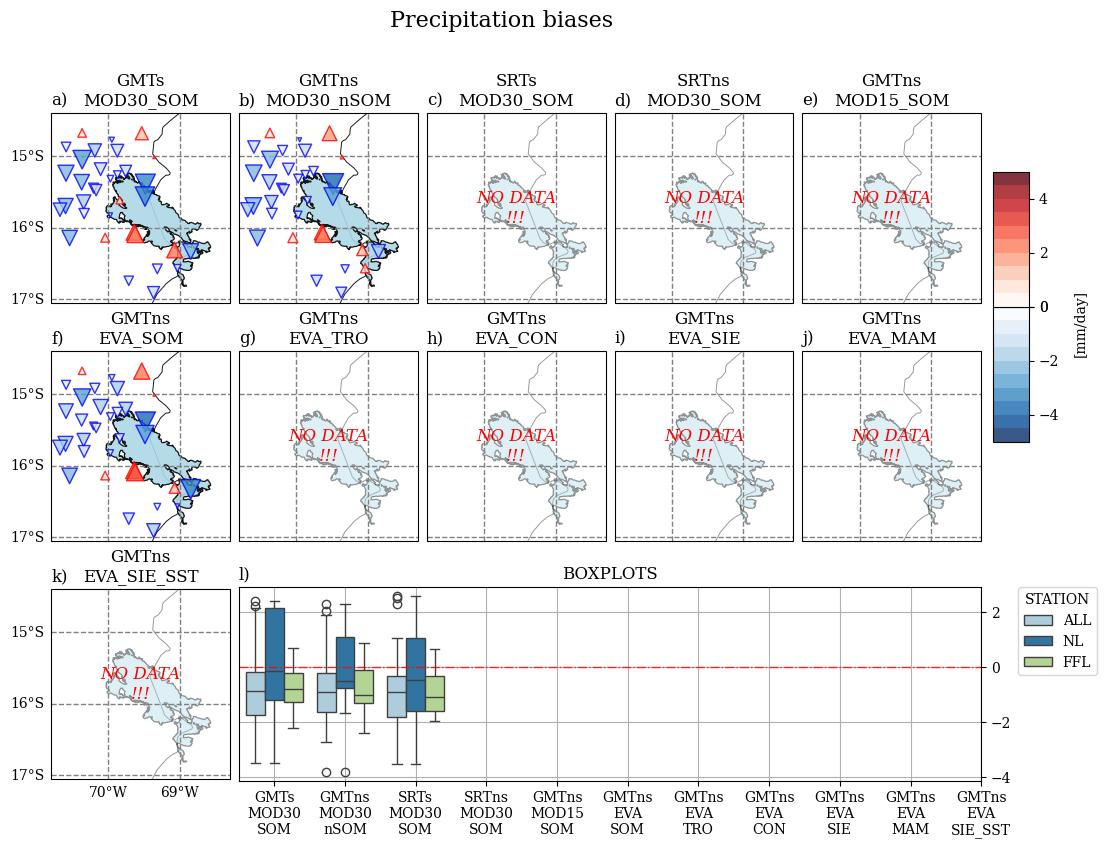
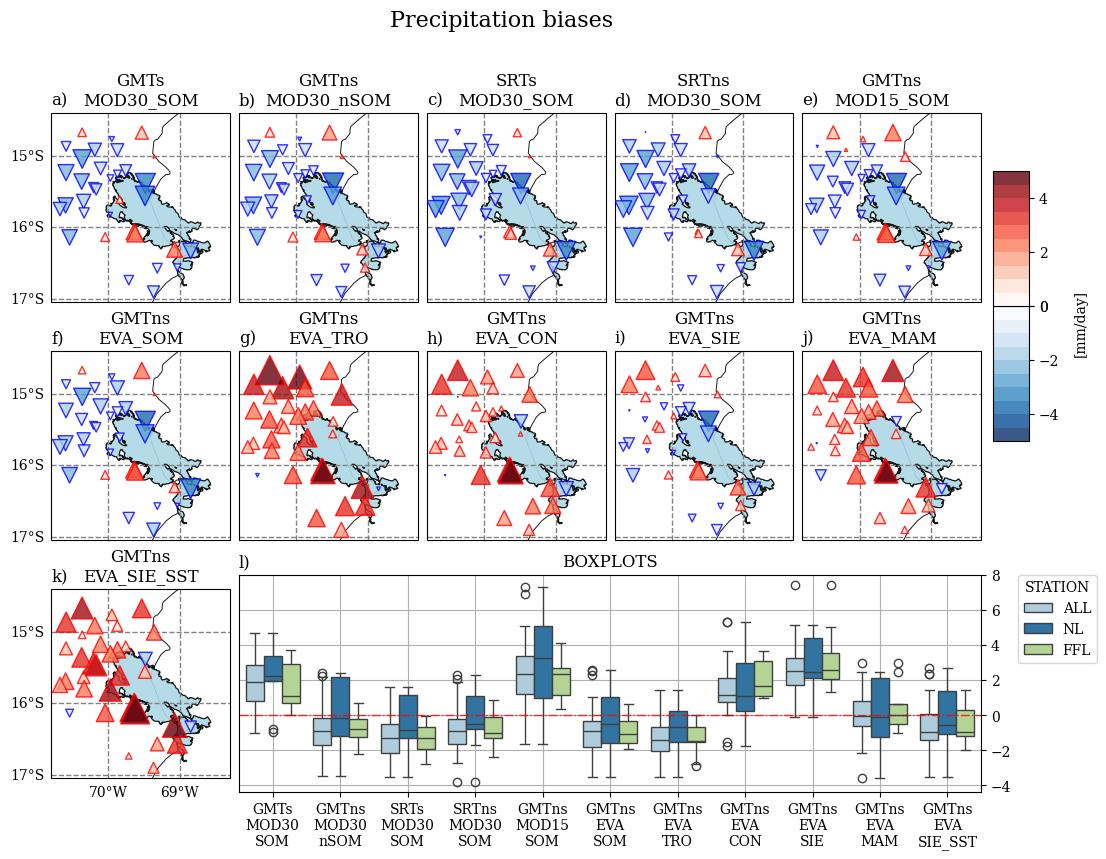
Elimina carperta y actualiza archivos

diff --git a/src/02_station_dif.py b/src/02_station_dif.py
@@ -19,8 +19,9 @@ from glob import glob as gb
 # ============================================================
 
 # Experimentos a evaluar usando archivos creados con el script 01_ordena_wrf_files.py
-EXPERIMENTOS = [e.split("/")[-1].split("_")[0] for e in gb("../data/nc_files/*t2m.png")]  #['EXP0', 'EXP1']
-
+files_experimentos = gb("../data/nc_files/*t2m_d02_dy.nc")
+EXPERIMENTOS = [e.split("/")[-1].split("_")[0] for e in files_experimentos]  #['EXP0', 'EXP1']
+print(EXPERIMENTOS)
 # Rutas de datos
 RUTA_CSV = '../input_csv'          # Observaciones estacionales
 RUTA_NC = '../data/nc_files'       # Salidas WRF procesadas
@@ -87,7 +88,7 @@ def main():
         
         # Extraer cada experimento y calcular bias
         for exp in EXPERIMENTOS:
-            patron = f"{RUTA_NC}/{exp}*{variable}*.nc"
+            patron = f"{RUTA_NC}/{exp}_*{variable}*.nc"
             archivo_mod = gb(patron)[0]
             
             print(f"  {exp}: {os.path.basename(archivo_mod)}")

diff --git a/src/03_plot_stations.py b/src/03_plot_stations.py
@@ -36,7 +36,7 @@ m = META[VAR]
 # ─── rótulos dos experimentos ─────────────────────────────────────────────────
 ############################################################
 EXP_IDS = [f'EXP{i}' for i in range(11)] + ['boxplot']
-
+print(EXP_IDS)
 EXP_LABELS_boxplot = ['GMTs\nMOD30\nSOM',  'GMTns\nMOD30\nnSOM', 'SRTs\nMOD30\nSOM', 'SRTns\nMOD30\nSOM', 
               'GMTns\nMOD15\nSOM',  'GMTns\nEVA\nSOM', 'GMTns\nEVA\nTRO',   'GMTns\nEVA\nCON',    
               'GMTns\nEVA\nSIE', 'GMTns\nEVA\nMAM',   'GMTns\nEVA\nSIE_SST','BOXPLOTS',]

diff --git a/src/aux_station_plot.py b/src/aux_station_plot.py
@@ -150,6 +150,6 @@ def plot_boxplot_panel(ax, root, var, exp_labels):
     ax.set_ylabel(None)
     ax.yaxis.tick_right()
     #ax.set_aspect(4.8 / 10 if 't' in var else 4 / 18) # TAMAÑO DE PANEL BOXPLOT
-    ax.set_aspect(4.8 / 10 if 't' in var else 7 / 18) # TAMAÑO DE PANEL BOXPLOT
+    #ax.set_aspect(4.8 / 10 if 't' in var else 7 / 18) # TAMAÑO DE PANEL BOXPLOT
     ax.legend(bbox_to_anchor=(1.05, 1), loc=2, borderaxespad=0, title='STATION')
     ax.grid(True)
